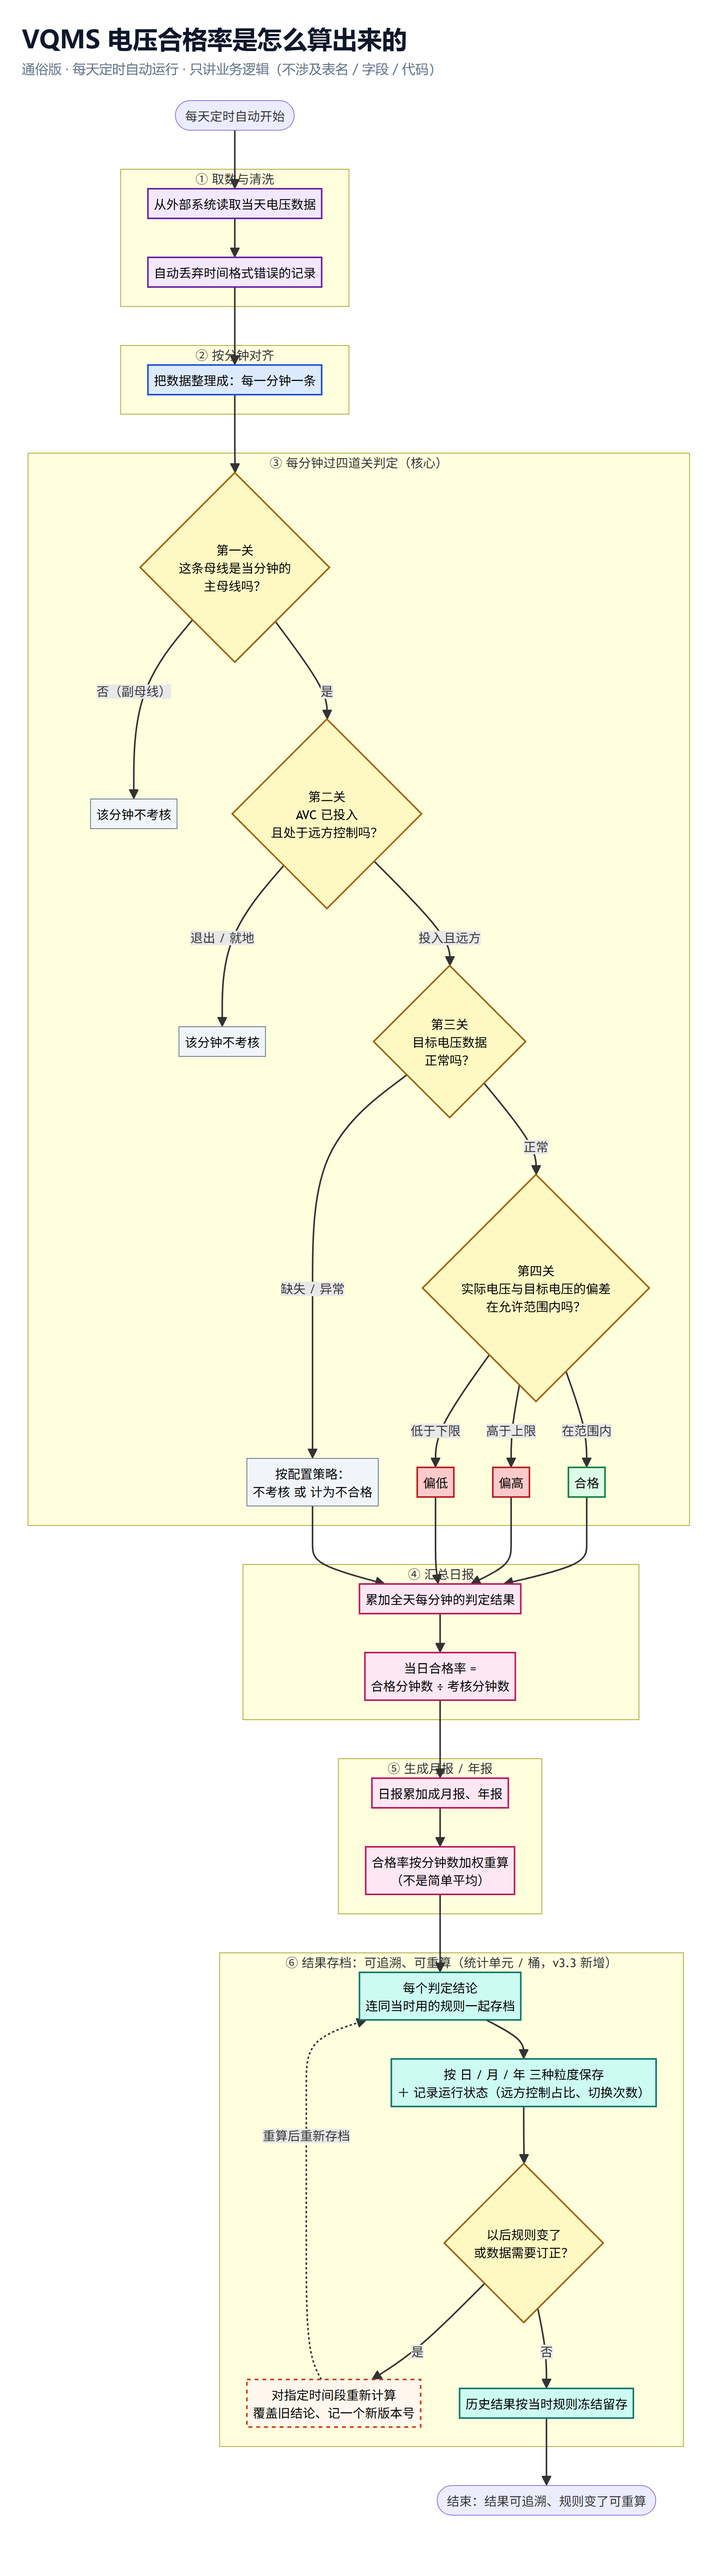
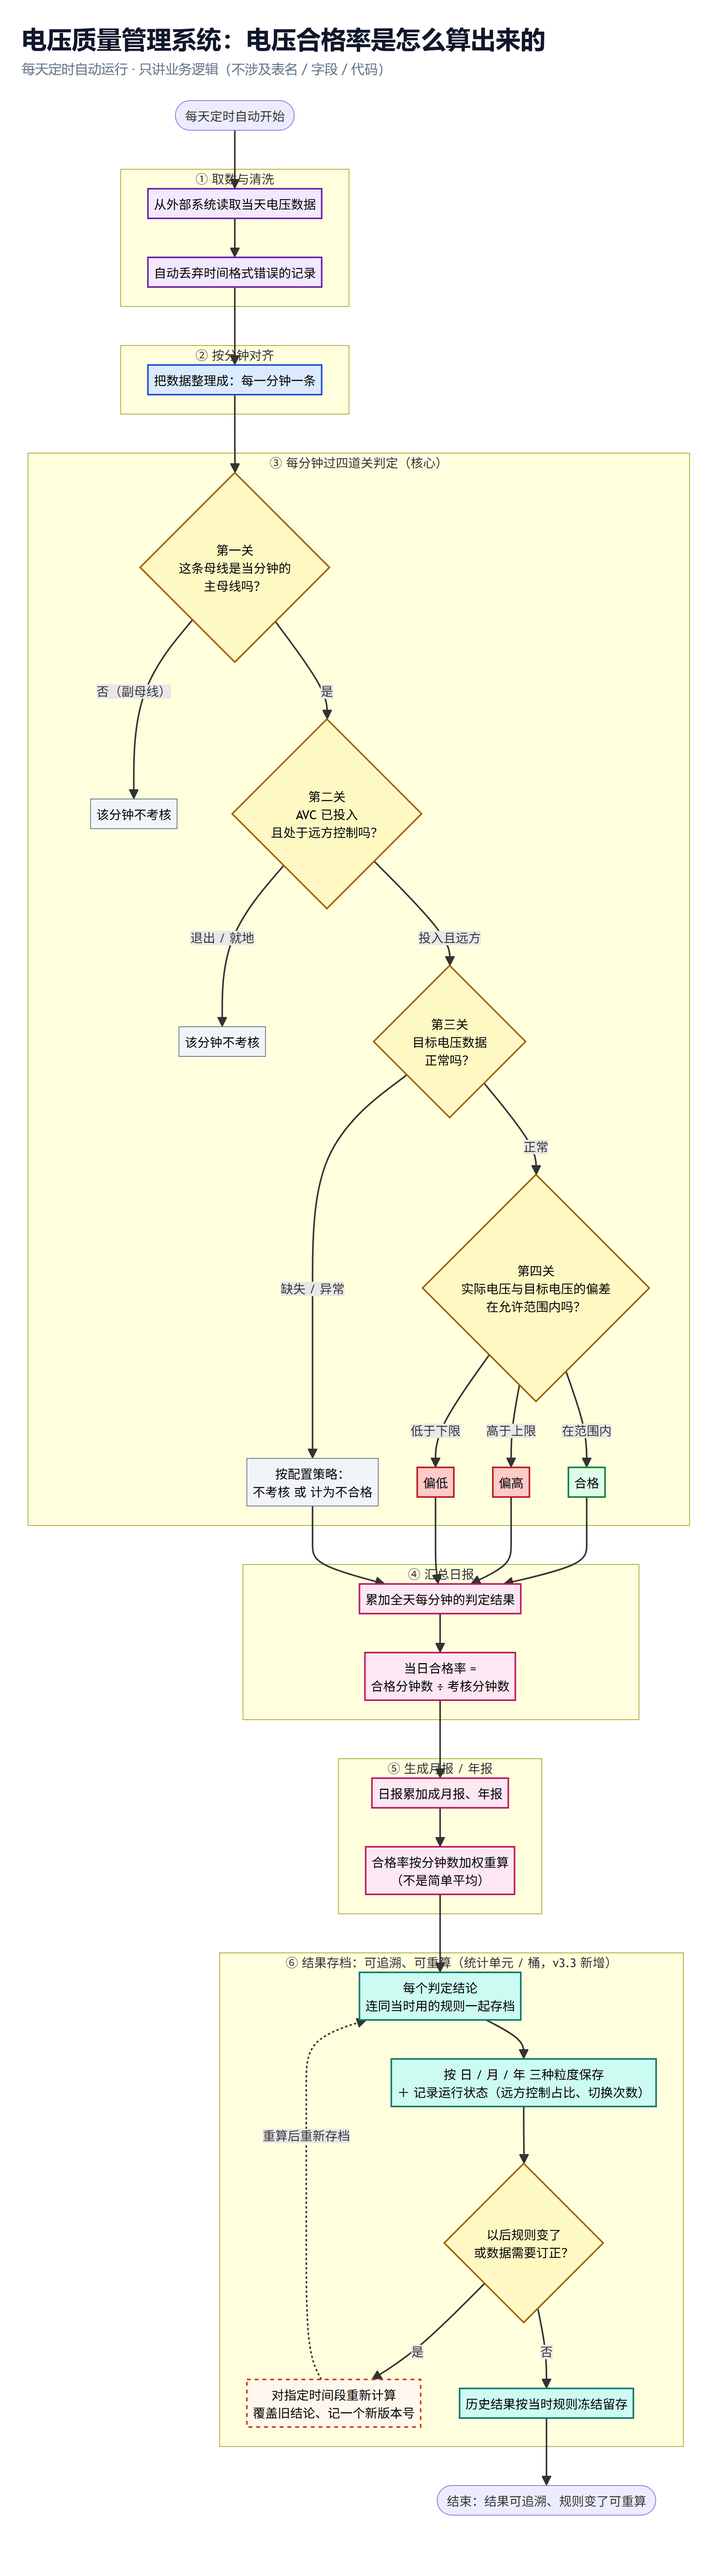
md/核心算法流程图 v3.3/v3.4 通俗版标题微调：图中标题「VQMS 电压合格率是怎么算出来的」改为中文「电压质量管理系统：电压合格率是怎么算出来的」；副标题去掉「通俗版 · 」前缀（v3.3 副标题→「每天定时自动运行 · 只讲业务逻辑…」、v3.4 同）。.md 源标题与重渲 2x PNG 同步，流程图内容不变

Changed region(s): [[0.0308, 0.0, 0.7403, 0.0312]]

diff --git a/md/核心算法流程图/核心算法流程图_v3_3_通俗版.md b/md/核心算法流程图/核心算法流程图_v3_3_通俗版.md
@@ -1,4 +1,4 @@
-# VQMS 电压合格率是怎么算出来的（通俗版 · 给非开发同事看）
+# 电压质量管理系统：电压合格率是怎么算出来的（通俗版 · 给非开发同事看）
 
 > 这张图用大白话讲：每天的"电压合格率"是怎么从原始数据一步步算出来的，以及判定结果怎么存档、以后规则变了怎么重算。不涉及表名、字段名、代码，只讲业务逻辑。系统每天定时自动运行。
 

diff --git a/md/核心算法流程图/核心算法流程图_v3_4_通俗版.md b/md/核心算法流程图/核心算法流程图_v3_4_通俗版.md
@@ -1,4 +1,4 @@
-# VQMS 电压合格率是怎么算出来的（v3.4 通俗版 · 给非开发同事看）
+# 电压质量管理系统：电压合格率是怎么算出来的（v3.4 通俗版 · 给非开发同事看）
 
 > 这张图用大白话讲：每天的"电压合格率"是怎么从原始数据一步步算出来的。不涉及表名、字段名、代码，只讲业务逻辑。系统每天定时自动运行。
 >
